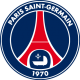
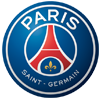
UPDATE: Lancement de la saison 2013/2014

diff --git a/themes/LIGUE1/css/modules/account.change.password.css b/themes/LIGUE1/css/modules/account.change.password.css
@@ -77,7 +77,7 @@ label.read { /* background: #b3a58f; */
 	left-margin: 10px;
 }
 
-#containerTitle .title {
+#containerTitle div.title {
 	position: absolute;
 	top: 20px;
 	left: 120px;
@@ -103,14 +103,14 @@ label.read { /* background: #b3a58f; */
 	left: 10px;
 }
 
-#containerError .title {
+#containerError div.title {
 	width: 110px;
 	height: 110px;
 	overflow: hidden;
 	margin: 20px;
 }
 
-#containerError .title img {
+#containerError div.title img {
 	width: 55px;
 	height: 55px;
 }
@@ -140,7 +140,7 @@ label.read { /* background: #b3a58f; */
 	left: 10px;
 }
 
-#containerSuccess .title {
+#containerSuccess div.title {
 	width: 110px;
 	height: 110px;
 	overflow: hidden;
@@ -176,14 +176,14 @@ label.read { /* background: #b3a58f; */
 	left: 10px;
 }
 
-#containerDataInput .title {
+#containerDataInput div.title {
 	width: 110px;
 	height: 110px;
 	overflow: hidden;
 	margin: 20px;
 }
 
-#containerDataInput .title img {
+#containerDataInput div.title img {
 	width: 55px;
 	height: 55px;
 }

diff --git a/themes/LIGUE1/css/default.css b/themes/LIGUE1/css/default.css
@@ -433,7 +433,7 @@ h6 {
 }
 
 div.title {
-	color: #F21E8C;
+	color: #365F89;
 	font-size: 14px;
 	font-weight: bold;
 	margin-bottom: 7px;

diff --git a/lib/functions.php b/lib/functions.php
@@ -258,9 +258,9 @@ function ConvertLfpKeyToP4F($lfpKey) {
    Dijon FCO -> 547450 -> 57
    Evian TG FC -> 553251 -> 58
    CS Sedan      -> 500266 -> 59
-   FC Nantes  -> 501904 -> 60
+   FC Nantes  -> 501904 -> 69
    SC Bastia -> 508009 -> 61
-   EA Guingamp -> 500126 -> 62
+   EA Guingamp -> 500126 -> 70
    FC Metz -> 500154 -> 63
    RC Strasbourg -> 500191 -> 64
    ESTAC -> 500073 -> 65
@@ -296,9 +296,9 @@ function ConvertLfpKeyToP4F($lfpKey) {
   547450 => 57,
   553251 => 58,
   500266 => 59,
-  501904 => 60,
+  501904 => 69,
   508009 => 66,
-  500126 => 62,
+  500126 => 70,
   500154 => 63,
   500191 => 64,
   500073 => 68,
@@ -312,7 +312,11 @@ function ConvertLfpKeyToP4F($lfpKey) {
   "553251_new" => 58,
   542397 => 67,
   "Reims_Pantone" => 67,
-  "estac_2012" => 68
+  "estac_2012" => 68,
+  "PSG_logo" => 48,
+  "Monaco_AS"=>38,
+  "Stade_reims"=>67,
+  "logo_nice_100" => 49
   );
 
   if (array_key_exists($lfpKey,$arrlfpKeys)) {

diff --git a/modules/home.php b/modules/home.php
@@ -47,7 +47,7 @@ p {
 <div class='altBloc'>
 <h3 style='font-size:30px;font-family: Georgia;color:#365F89'>Bienvenue sur le site</h3>
 <h3 style='font-size:30px;font-family: Georgia;color:#365F89'>Pronostics4Fun</h3>
-<h4 style='font-size:20px;font-family: Georgia;color:#FFFFFF;text-align:center;'>Ligue 1 - Saison 2012/2013</h3>
+<h4 style='font-size:20px;font-family: Georgia;color:#FFFFFF;text-align:center;'>Ligue 1 - Saison 2013/2014</h3>
 <br/>
 <br/>
 <br/>

diff --git a/begin.file.php b/begin.file.php
@@ -65,7 +65,7 @@ else
 setlocale (LC_TIME, 'fr_FR.utf8','fra');
 
 //TODO: Créer une session pour stocker la session courante
-DEFINE ('COMPETITION','5');
+DEFINE ('COMPETITION','6');
 //TODO: Récupérer l'information de la base de données
 $_themePath = "/themes/LIGUE1";
 $_competitionType =1;

diff --git a/lib/match.php b/lib/match.php
@@ -13,6 +13,7 @@ function GetMatchInfo ($_teamHomeKey,$_teamAwayKey,$_externalKey,$matchKey,$isLi
     case 2:
     case 3:
     case 5:
+    case 6:
       if ($isLive) {
         $urlToGetMatchInfo = "http://" .EXTERNAL_WEB_SITE . "/ligue1/feuille_match/$_externalKey?live=1";
       } else {

diff --git a/get.matches.ligue1.php b/get.matches.ligue1.php
@@ -33,6 +33,7 @@ foreach ($rowsSet as $rowSet)
     case 2:
     case 3:
     case 5:
+    case 6:
       $url = "http://" . EXTERNAL_WEB_SITE . "/competitionPluginCalendrierResultat/changeCalendrierHomeJournee?c=ligue1&js=" . $dayKey . "&id=0";
       break;
   }

diff --git a/reminder.php b/reminder.php
@@ -48,7 +48,7 @@ AND players.IsReminderEmailSent=0
 
       $emailSent = true;
       echo "email to : ". $rowSet["NickName"]."<br/>";
-      $mail             = new PHPMailer(true);
+      $mail             = new P4FMailer();
 
       try {
 
